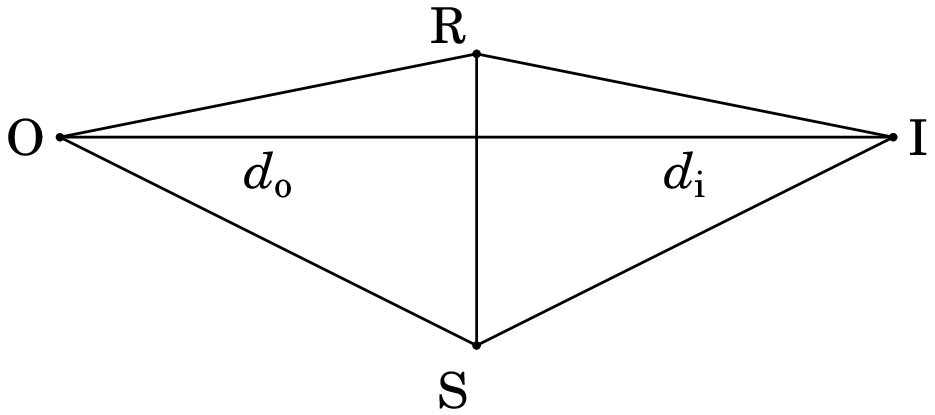
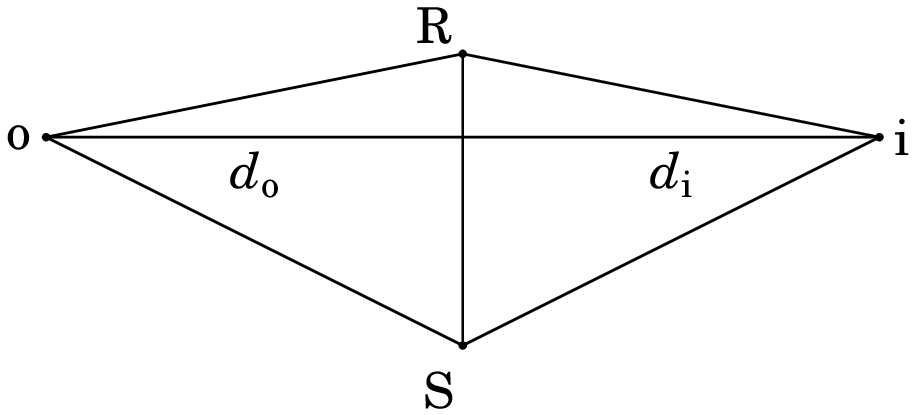
Some changes to chapter 1 of the Opticks book.

diff --git a/otica/otica_geometrica.html b/otica/otica_geometrica.html
@@ -4,7 +4,7 @@
 <meta charset="utf-8">
 <meta name="viewport" content="width=device-width, initial-scale=1">
 <title>Ótica e Ondas &ndash; Capítulo 1</title>
-<!--Generated on Fri Nov 07 10:41:13 WET 2025 by latextohtml.tcl, by J. Villate -->
+<!--Generated on Tue Nov 11 13:28:52 WET 2025 by latextohtml.tcl, by J. Villate -->
 <link rel="stylesheet" href="../css/book.css">
 <link rel="icon" type="image/svg+xml" href="../img/favicon.svg">
 <link rel="alternate icon" href="../img/favicon.ico">
@@ -47,7 +47,7 @@ nenhum dos raios que saem da fonte consegue atingir esses pontos na
 sombra.
 </p>
 <figure class="center" id="fig:Camara_escura">
-<img class="fig" src="img/Camara_escura.jpg" style="width:40em;max-width:100%;height:auto">
+<img class="fig" src="img/Camara_escura.jpg" style="width:90%;height:auto">
 <figcaption>
 <b>Figure 1.1:</b>  Câmara escura no Castelo de São Jorge em Lisboa.
 </figcaption>
@@ -107,7 +107,7 @@ linha reta em várias direções. Cada ponto luminoso no ecrã emite raios
 nas direções radiais da esfera com centro no ponto. 
 </p>
 <figure class="center" id="fig:Luz_objetos">
-<img class="fig" src="img/Luz_objetos.jpg" style="width:40em;max-width:100%;height:auto">
+<img class="fig" src="img/Luz_objetos.jpg" style="width:90%;height:auto">
 <figcaption>
 <b>Figure 1.3:</b>  Alguns objetos produzem a sua própria luz, enquanto outros simplesmente refletem a luz das fontes luminosas.
 </figcaption>
@@ -164,7 +164,7 @@ da luz para a superfície pintada sobre o cartão da capa, onde é
 produzida a reflexão difusa que observamos no resto da capa. 
 </p>
 <figure class="center" id="fig:livro">
-<img class="fig" src="img/Livro.jpg" style="width:30em;max-width:100%;height:auto">
+<img class="fig" src="img/Livro.jpg" style="width:60%;height:auto">
 <figcaption>
 <b>Figure 1.5:</b>  Reflexão especular e reflexão difusa na capa de um livro.
 </figcaption>
@@ -435,8 +435,8 @@ a imagem real produzida numa câmara escura.
 <p>
 <b>1.1.</b> Numa câmara escura, a parede onde se forma a imagem é vertical e
   está a uma distância <math id="eqn41" display="inline"><mrow><msub><mi>d</mi><mrow><mi mathvariant="normal">i</mi></mrow></msub></mrow></math> do orifício. (<i>a</i>)
-  Demonstre que a relação entre o tamanho <math id="eqn42" display="inline"><mrow><msub><mi>h</mi><mrow><mi mathvariant="normal">o</mi></mrow></msub></mrow></math> de um objeto
-  vertical e o tamanho da sua imagem, <math id="eqn43" display="inline"><mrow><msub><mi>h</mi><mrow><mi mathvariant="normal">i</mi></mrow></msub></mrow></math>, é igual à
+  Demonstre que a relação entre o tamanho <math id="eqn42" display="inline"><mrow><msub><mi>ℓ</mi><mrow><mi mathvariant="normal">o</mi></mrow></msub></mrow></math> de um objeto
+  vertical e o tamanho da sua imagem, <math id="eqn43" display="inline"><mrow><msub><mi>ℓ</mi><mrow><mi mathvariant="normal">i</mi></mrow></msub></mrow></math>, é igual à
   relação entre a distância do objeto até o orifício, <math id="eqn44" display="inline"><mrow><msub><mi>d</mi><mrow><mi mathvariant="normal">o</mi></mrow></msub></mrow></math>,
   e a distância desde o orifício até à imagem,
   <math id="eqn45" display="inline"><mrow><msub><mi>d</mi><mrow><mi mathvariant="normal">i</mi></mrow></msub></mrow></math>. (<i>b</i>) Se a distância do orifício até a imagem
@@ -444,7 +444,7 @@ a imagem real produzida numa câmara escura.
   tem diâmetro de <math id="eqn46" display="inline"><mrow><mn>1.394</mn><mi>×</mi><msup><mn>10</mn><mrow><mn>6</mn></mrow></msup></mrow></math> km e está a uma distância de
   <math id="eqn47" display="inline"><mrow><mn>149.6</mn><mi>×</mi><msup><mn>10</mn><mrow><mn>6</mn></mrow></msup></mrow></math> km da Terra).
 </p>
-<img class="fig center" src="img/camara_escura.png" style="width:20.517em;max-width:100%;height:auto">
+<img class="fig center" src="img/camara_escura.png" style="width:20.286em;max-width:100%;height:auto">
 <p>
   <b>Resolução</b>. (<i>a</i>) A figura acima mostra os raios que
   produzem as imagens dos dois extremos do objeto. como o ângulo entre
@@ -453,15 +453,15 @@ a imagem real produzida numa câmara escura.
   pela imagem e o orifício. A semelhança de triângulos implica:
 </p>
 <div class="eqnalign">
-<math id="eqn48" display="inline"><mrow><mstyle displaystyle="true" scriptlevel="0"><mstyle displaystyle="true" scriptlevel="0"><mfrac><mrow><msub><mi>h</mi><mrow><mi mathvariant="normal">o</mi></mrow></msub></mrow><mrow><msub><mi>h</mi><mrow><mi mathvariant="normal">i</mi></mrow></msub></mrow></mfrac></mstyle><mo>=</mo><mstyle displaystyle="true" scriptlevel="0"><mfrac><mrow><msub><mi>d</mi><mrow><mi mathvariant="normal">o</mi></mrow></msub></mrow><mrow><msub><mi>d</mi><mrow><mi mathvariant="normal">i</mi></mrow></msub></mrow></mfrac></mstyle></mstyle></mrow></math>
+<math id="eqn48" display="inline"><mrow><mstyle displaystyle="true" scriptlevel="0"><mstyle displaystyle="true" scriptlevel="0"><mfrac><mrow><msub><mi>ℓ</mi><mrow><mi mathvariant="normal">o</mi></mrow></msub></mrow><mrow><msub><mi>ℓ</mi><mrow><mi mathvariant="normal">i</mi></mrow></msub></mrow></mfrac></mstyle><mo>=</mo><mstyle displaystyle="true" scriptlevel="0"><mfrac><mrow><msub><mi>d</mi><mrow><mi mathvariant="normal">o</mi></mrow></msub></mrow><mrow><msub><mi>d</mi><mrow><mi mathvariant="normal">i</mi></mrow></msub></mrow></mfrac></mstyle></mstyle></mrow></math>
 </div>
 <p>
   (<i>b</i>) Substituindo na expressão da alínea anterior a distância
-  até o Sol, <math id="eqn49" display="inline"><mrow><msub><mi>d</mi><mrow><mi mathvariant="normal">o</mi></mrow></msub></mrow></math>, o tamanho do Sol, <math id="eqn50" display="inline"><mrow><msub><mi>h</mi><mrow><mi mathvariant="normal">o</mi></mrow></msub></mrow></math>, e a
+  até o Sol, <math id="eqn49" display="inline"><mrow><msub><mi>d</mi><mrow><mi mathvariant="normal">o</mi></mrow></msub></mrow></math>, o tamanho do Sol, <math id="eqn50" display="inline"><mrow><msub><mi>ℓ</mi><mrow><mi mathvariant="normal">o</mi></mrow></msub></mrow></math>, e a
   distância até a imagem, <math id="eqn51" display="inline"><mrow><msub><mi>d</mi><mrow><mi mathvariant="normal">i</mi></mrow></msub><mo>=</mo><mn>90</mn></mrow></math> cm, obtém-se:
 </p>
 <div class="eqnalign">
-<math id="eqn52" display="inline"><mrow><mstyle displaystyle="true" scriptlevel="0"><msub><mi>h</mi><mrow><mi mathvariant="normal">i</mi></mrow></msub><mo>=</mo><mstyle displaystyle="true" scriptlevel="0"><mfrac><mrow><mn>1.391</mn><mi>×</mi><msup><mn>10</mn><mrow><mn>6</mn></mrow></msup><mspace width="0.167em" /><mrow><mi mathvariant="normal">k</mi><mi mathvariant="normal">m</mi></mrow><mi>×</mi><mn>90</mn><mspace width="0.167em" /><mrow><mi mathvariant="normal">c</mi><mi mathvariant="normal">m</mi></mrow></mrow><mrow><mn>149.6</mn><mi>×</mi><msup><mn>10</mn><mrow><mn>6</mn></mrow></msup><mspace width="0.167em" /><mrow><mi mathvariant="normal">k</mi><mi mathvariant="normal">m</mi></mrow></mrow></mfrac></mstyle><mo>=</mo><mn>0.839</mn><mspace width="0.278em" /><mrow><mi mathvariant="normal">c</mi><mi mathvariant="normal">m</mi></mrow></mstyle></mrow></math>
+<math id="eqn52" display="inline"><mrow><mstyle displaystyle="true" scriptlevel="0"><msub><mi>ℓ</mi><mrow><mi mathvariant="normal">i</mi></mrow></msub><mo>=</mo><mstyle displaystyle="true" scriptlevel="0"><mfrac><mrow><mn>1.391</mn><mi>×</mi><msup><mn>10</mn><mrow><mn>6</mn></mrow></msup><mspace width="0.167em" /><mrow><mi mathvariant="normal">k</mi><mi mathvariant="normal">m</mi></mrow><mi>×</mi><mn>90</mn><mspace width="0.167em" /><mrow><mi mathvariant="normal">c</mi><mi mathvariant="normal">m</mi></mrow></mrow><mrow><mn>149.6</mn><mi>×</mi><msup><mn>10</mn><mrow><mn>6</mn></mrow></msup><mspace width="0.167em" /><mrow><mi mathvariant="normal">k</mi><mi mathvariant="normal">m</mi></mrow></mrow></mfrac></mstyle><mo>=</mo><mn>0.839</mn><mspace width="0.278em" /><mrow><mi mathvariant="normal">c</mi><mi mathvariant="normal">m</mi></mrow></mstyle></mrow></math>
 </div>
 <p>
   o resultado anterior pode ser corroborado experimentalmente, e
@@ -532,12 +532,12 @@ a imagem real produzida numa câmara escura.
 </p>
 <p>
   <b>Resolução</b>. A figura seguinte mostra dois raios de luz que
-  saem do ponto luminoso O, sendo refletidos no espelho, nos pontos R e
+  saem do ponto luminoso o, sendo refletidos no espelho, nos pontos R e
   S.
 </p>
-<img class="fig center" src="img/espelho_plano.png" style="width:19.635em;max-width:100%;height:auto">
+<img class="fig center" src="img/espelho_plano.png" style="width:19.236em;max-width:100%;height:auto">
 <p>
-  Os dois raios refletidos em R e em S parecem vir do ponto comum I,
+  Os dois raios refletidos em R e em S parecem vir do ponto comum i,
   no outro lado do espelho. Os ângulos de incidência e reflexão do
   raio em R são iguais, e são iguais também ao ângulo que o segmento
   RI faz com a perpendicular ao espelho (<math id="eqn72" display="inline"><mrow><mi>α</mi></mrow></math> na figura). E os
@@ -552,14 +552,14 @@ a imagem real produzida numa câmara escura.
   (<math id="eqn80" display="inline"><mrow><msub><mi>d</mi><mrow><mi mathvariant="normal">o</mi></mrow></msub></mrow></math> e <math id="eqn81" display="inline"><mrow><msub><mi>d</mi><mrow><mi mathvariant="normal">i</mi></mrow></msub></mrow></math>) são as alturas desses triângulos,
   que são iguais, porque os triângulos são semelhantes:
 </p>
-<img class="fig center" src="img/triangulos_ponto_imagem.png" style="width:19.635em;max-width:100%;height:auto">
+<img class="fig center" src="img/triangulos_ponto_imagem.png" style="width:19.236em;max-width:100%;height:auto">
 <p>
   Como não assumimos nenhum ângulo especial <math id="eqn82" display="inline"><mrow><mi>α</mi></mrow></math> ou <math id="eqn83" display="inline"><mrow><mi>β</mi></mrow></math>,
   quaisquer outros dois raios que considerarmos formarão outros dois
   triângulos semelhantes com altura <math id="eqn84" display="inline"><mrow><msub><mi>d</mi><mrow><mi mathvariant="normal">o</mi></mrow></msub></mrow></math> (igual a
   <math id="eqn85" display="inline"><mrow><msub><mi>d</mi><mrow><mi mathvariant="normal">i</mi></mrow></msub></mrow></math>). A conclusão é que todos os raios refletidos no
-  espelho parecem vir dum ponto único I, imagem de O, que está à mesma
-  distância do espelho do que o ponto O.
+  espelho parecem vir dum ponto único i, imagem de o, que está à mesma
+  distância do espelho do que o ponto o.
 </p>
 <p>
 <b>1.5.</b> Qual é a altura mínima que deverá ter um espelho vertical para
@@ -706,7 +706,7 @@ a imagem real produzida numa câmara escura.
   dois triângulos retângulos, obtém-se:
 </p>
 <div class="eqnalign">
-<math id="eqn121" display="inline"><mrow><mstyle displaystyle="true" scriptlevel="0"><mstyle displaystyle="true" scriptlevel="0"><mfrac><mrow><mi>x</mi></mrow><mrow><msub><mi>v</mi><mrow><mi mathvariant="normal">p</mi></mrow></msub><mi>A</mi><mi>R</mi></mrow></mfrac></mstyle><mo>=</mo><mstyle displaystyle="true" scriptlevel="0"><mfrac><mrow><mo stretchy="false">(</mo><mi>d</mi><mo>−</mo><mi>x</mi><mo stretchy="false">)</mo></mrow><mrow><msub><mi>v</mi><mrow><mi mathvariant="normal">m</mi></mrow></msub><mi>R</mi><mi>B</mi></mrow></mfrac></mstyle></mstyle></mrow></math>
+<math id="eqn121" display="inline"><mrow><mstyle displaystyle="true" scriptlevel="0"><mstyle displaystyle="true" scriptlevel="0"><mfrac><mrow><mi>x</mi></mrow><mrow><msub><mi>v</mi><mrow><mi mathvariant="normal">p</mi></mrow></msub><mspace width="0.167em" /><mi>A</mi><mi>R</mi></mrow></mfrac></mstyle><mo>=</mo><mstyle displaystyle="true" scriptlevel="0"><mfrac><mrow><mo stretchy="false">(</mo><mi>d</mi><mo>−</mo><mi>x</mi><mo stretchy="false">)</mo></mrow><mrow><msub><mi>v</mi><mrow><mi mathvariant="normal">m</mi></mrow></msub><mspace width="0.167em" /><mi>R</mi><mi>B</mi></mrow></mfrac></mstyle></mstyle></mrow></math>
 </div>
 <p>
   <math id="eqn122" display="inline"><mrow><mi>x</mi><mo>/</mo><mi>A</mi><mi>R</mi></mrow></math> é igual ao seno do ângulo <math id="eqn123" display="inline"><mrow><msub><mi>θ</mi><mrow><mi mathvariant="normal">p</mi></mrow></msub></mrow></math> (ver gráfico
@@ -721,9 +721,9 @@ a imagem real produzida numa câmara escura.
 </div>
 <p>
   que é idêntica à lei de Snell para os raios de luz. Neste caso os
-  números <math id="eqn128" display="inline"><mrow><mi>v</mi><mo>/</mo><msub><mi>v</mi><mrow><mi mathvariant="normal">p</mi></mrow></msub></mrow></math> e <math id="eqn129" display="inline"><mrow><mi>v</mi><mo>/</mo><msub><mi>v</mi><mrow><mi mathvariant="normal">p</mi></mrow></msub></mrow></math> são números, iguais à
-  relação entre a velocidade máxima do nadador e a sua velocidade na
-  areia da praia ou na água do mar.
+  números <math id="eqn128" display="inline"><mrow><mi>v</mi><mo>/</mo><msub><mi>v</mi><mrow><mi mathvariant="normal">p</mi></mrow></msub></mrow></math> e <math id="eqn129" display="inline"><mrow><mi>v</mi><mo>/</mo><msub><mi>v</mi><mrow><mi mathvariant="normal">p</mi></mrow></msub></mrow></math> são iguais à relação
+  entre a velocidade máxima do nadador e a sua velocidade na areia da
+  praia ou na água do mar.
 </p>
 <p>
 <b>1.8.</b> Determine o ângulo crítico para a luz que passa de vidro, com
@@ -788,7 +788,7 @@ a imagem real produzida numa câmara escura.
 </div>
 </p>
 <h2>Exercícios adicionais</h2>
-<b>1.10.</b> A figura mostra dois espelhos planos e perpendiculares entre
+<b>1.1.</b> A figura mostra dois espelhos planos e perpendiculares entre
   si. Um raio de luz incide no primeiro espelho, com ângulo de
   incidência <math id="eqn148" display="inline"><mrow><msub><mi>θ</mi><mn>1</mn></msub></mrow></math>, sendo refletido para o segundo espelho, com
   ângulo de incidência <math id="eqn149" display="inline"><mrow><msub><mi>θ</mi><mn>2</mn></msub></mrow></math>. Demonstre que, independentemente do
@@ -796,18 +796,18 @@ a imagem real produzida numa câmara escura.
   espelhos é sempre paralelo ao raio que entrou.
 <img class="fig center" src="img/espelhos_perpendiculares.png" style="width:12.621em;max-width:100%;height:auto">
 <p>
-<b>1.11.</b> Considere uma pessoa que se encontra imersa numa piscina com
+<b>1.2.</b> Considere uma pessoa que se encontra imersa numa piscina com
   água (n = 1.333).  A pessoa vê objectos num círculo de raio R = 2.0 m
   por cima da sua cabeça e fora deste círculo a pessoa repara que a
   cor da água é da cor das paredes da piscina. A que profundidade se
   encontra a pessoa?
 </p>
 <p>
-<b>1.12.</b> Um homem caminha a 1.3 m/s, aproximando-se de um espelho
+<b>1.3.</b> Um homem caminha a 1.3 m/s, aproximando-se de um espelho
   plano. Com que velocidade se aproximará a sua imagem dele?
 </p>
 <p>
-<b>1.13.</b> Para medir o índice de refração de um líquido, preenche-se
+<b>1.4.</b> Para medir o índice de refração de um líquido, preenche-se
   completamente com esse líquido um recipiente retangular de 15 cm de
   lado e 20 cm de profundidade, e determina-se que o mínimo ângulo
   por cima da horizontal em que é possível observar o canto inferior
@@ -816,18 +816,18 @@ a imagem real produzida numa câmara escura.
 <img class="fig center" src="img/indice_refracao.png" style="width:14.784em;max-width:100%;height:auto">
 </p>
 <h2>Respostas dos exercícios adicionais</h2>
-<b>1.0.</b> Sugestão: comece por demonstrar que o ângulo <math id="eqn152" display="inline"><mrow><msub><mi>θ</mi><mn>2</mn></msub></mrow></math> é igual a
+<b>1.1.</b> Sugestão: comece por demonstrar que o ângulo <math id="eqn152" display="inline"><mrow><msub><mi>θ</mi><mn>2</mn></msub></mrow></math> é igual a
   <math id="eqn153" display="inline"><mrow><msup><mn>90</mn><mo>∘</mo></msup><mo>−</mo><msub><mi>θ</mi><mn>1</mn></msub></mrow></math>, e depois demonstre que o raio que entra e o
   raio que sai fazem o mesmo ângulo com a horizontal.
 </p>
 <p>
-<b>1.11.</b> <math id="eqn154" display="inline"><mrow><mn>1.76</mn></mrow></math> m.
+<b>1.2.</b> <math id="eqn154" display="inline"><mrow><mn>1.76</mn></mrow></math> m.
 </p>
 <p>
-<b>1.12.</b> 2.6 m/s.
+<b>1.3.</b> 2.6 m/s.
 </p>
 <p>
-<b>1.13.</b> 1.566.
+<b>1.4.</b> 1.566.
 </p>
 </section>
 <footer>
@@ -835,7 +835,7 @@ a imagem real produzida numa câmara escura.
 <p>Publicado nos termos da <a rel="license"
 href="http://creativecommons.org/licenses/by-sa/4.0/">Licença
 Creative Commons Attribuição-Partilha</a> (versão 4.0).</p>
-<span>Última modificação: 2025/11/08 11:13:15 UTC</span>
+<span>Última modificação: Tue Nov 11 13:28:52 WET 2025</span>
 </footer>
 </body>
 </html>
